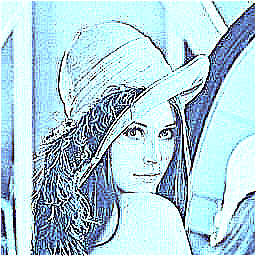
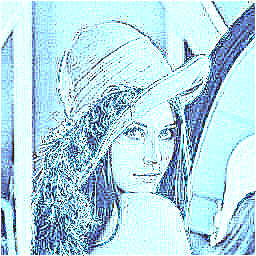
code reconstructor

diff --git a/index.js b/index.js
@@ -10,11 +10,11 @@ const {
   type
 } = image;
 
-
 const arrayData = [];
+// 从Float64Array => Arrary
 data.forEach(item => {
   arrayData.push(item);
-})
+});
 
 const pixels = _.chunk(arrayData, 4);
 
@@ -22,77 +22,94 @@ const pixels = _.chunk(arrayData, 4);
  * get width * height matrix
  */
 const matrix = _.chunk(pixels, width);
+
 const zeros = [];
-for(let i = 0;i < width; i++){
+
+for (let i = 0; i < width; i++) {
   zeros.push([0, 0, 0, 1]);
 }
-matrix.unshift(zeros);
-matrix.push(zeros);
+
+// 矩阵开头插入一行0像素
+matrix.unshift(_.cloneDeep(zeros));
+// 矩阵末尾插入一行0像素
+matrix.push(_.cloneDeep(zeros));
 
 matrix.forEach(item => {
   item.push([0, 0, 0, 1]);
   item.unshift([0, 0, 0, 1]);
 });
 
-// 图像锐化 sharpening
+// 图像锐化kernel sharpening
 const sharp = [
   [-1, -1, -1],
   [-1, 9, -1],
   [-1, -1, -1]
 ];
 
-const getMatrix = (width, height, depth) => {
-  let matrix = [];
-  for (let i = 0; i < height; i++) {
-    let m = [];
-    for (let j = 0; j < width; j++) {
-      let de = [];
-      for (let d = 0; d < depth; d++) {
-        de.push(0);
-      }
-      m.push(de);
+// 获得一个全为0的矩阵
+const getMatrix = (...agrs) => {
+  let matrix = 0;
+  while (agrs.length) {
+    const length = agrs.pop();
+    const temp = [];
+    for (let i = 0; i < length; i++) {
+      temp.push(_.cloneDeep(matrix));
     }
-    matrix.push(m);
+    matrix = temp;
   }
   return matrix;
 };
 
-const newImage = getMatrix(width, height, 4);
+/**
+ * 使用一个卷积核来卷积图像
+ *
+ * @param {Array} image 待卷积图像
+ * @param {Arrary} kernel 卷积核
+ */
+const convolution = (image, kernel) => {
+  const width = image[0].length - 2;
+  const height = image.length - 2;
+  const newImage = getMatrix(width, height, 4);
+  /**
+   * 两个矩阵块相乘
+   * @param {*} kernel 卷积核
+   * @param {*} matrix 图像矩阵
+   * @param {*} x 当前位置x
+   * @param {*} y 当前位置y
+   */
+  const calc = (kernel, matrix, x, y) => {
+    let sum = 0;
+    const length = kernel.length;
+    for (let k = 0; k < length; k++) {
+      for (let i = 0; i < length; i++)
+        for (let j = 0; j < 3; j++) {
+          sum += (kernel[length - i - 1][length - j - 1] * matrix[x + i + -1][y + j + -1][k]);
+        }
+      newImage[x - 1][y - 1][k] = Math.abs(sum || 0);
+    }
+    newImage[x - 1][y - 1][3] = matrix[x][y][3];
+  };
 
-const convolution = (kernel, matrix, x, y) => {
-  let sum = 0;
-
-  for (let k = 0; k < 3; k++) {
-    for (let i = 0; i < 3; i++)
-      for (let j = 0; j < 3; j++) {
-        sum += (sharp[i][j] * matrix[x + i + -1][y + j + -1][k]);
-      }
-    newImage[x - 1][y - 1][k] = Math.abs(sum || 0);
+  // 开始卷积图像
+  for (let i = 1; i < width + 1; i++) {
+    for (let j = 1; j < height + 1; j++) {
+      calc(kernel, image, i, j);
+    }
   }
-  newImage[x - 1][y - 1][3] = matrix[x][y][3];
+  return newImage;
+};
+
+const newImage = convolution(matrix, sharp);
+const cresult = _.flattenDeep(newImage);
+const cimage = new Float64Array(width * height * 4);
+
+for (let i = 0; i < width * height * 4; i++) {
+  cimage[i] = cresult[i];
 }
-
-// 开始卷积图像
-for (let i = 1; i < width + 1; i++) {
-  for (let j = 1; j < height + 1; j++) {
-    convolution(sharp, matrix, i, j);
-  }
-}
-
-const ni = _.flattenDeep(newImage);
-
-const nf = new Float64Array(width * height * 4);
-
-for(let i = 0; i < width * height * 4; i++){
-  nf[i] = ni[i];
-}
-
-
-// fs.writeFileSync('./log/out.json', JSON.stringify(nf, null, 2));
 
 px.write('./output/img1.jpg', {
   height: height,
   width: width,
   type: type,
-  data: nf
+  data: cimage
 });

diff --git a/.eslintrc.js b/.eslintrc.js
@@ -1,0 +1,3 @@
+module.exports = {
+    "extends": "aliyun"
+};
